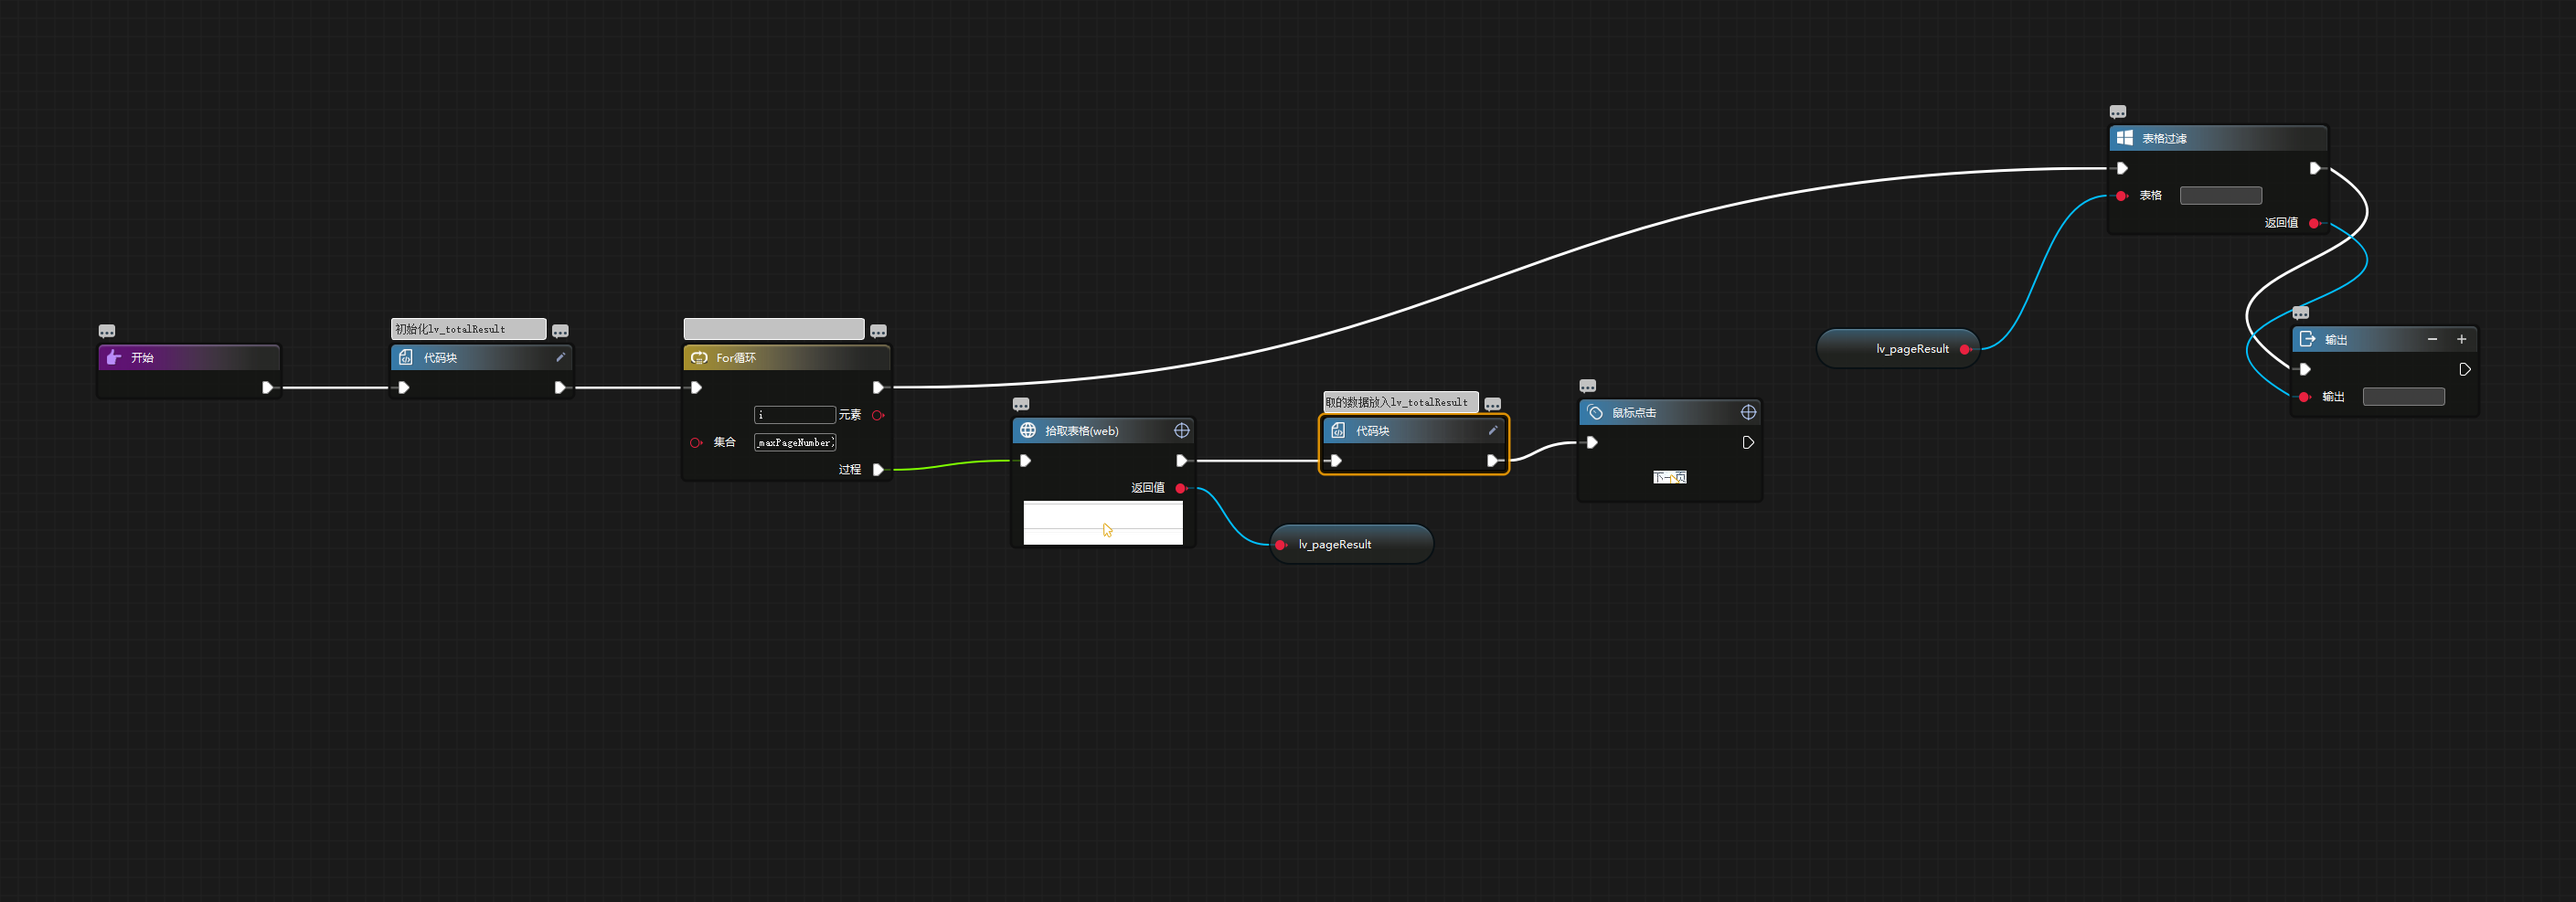
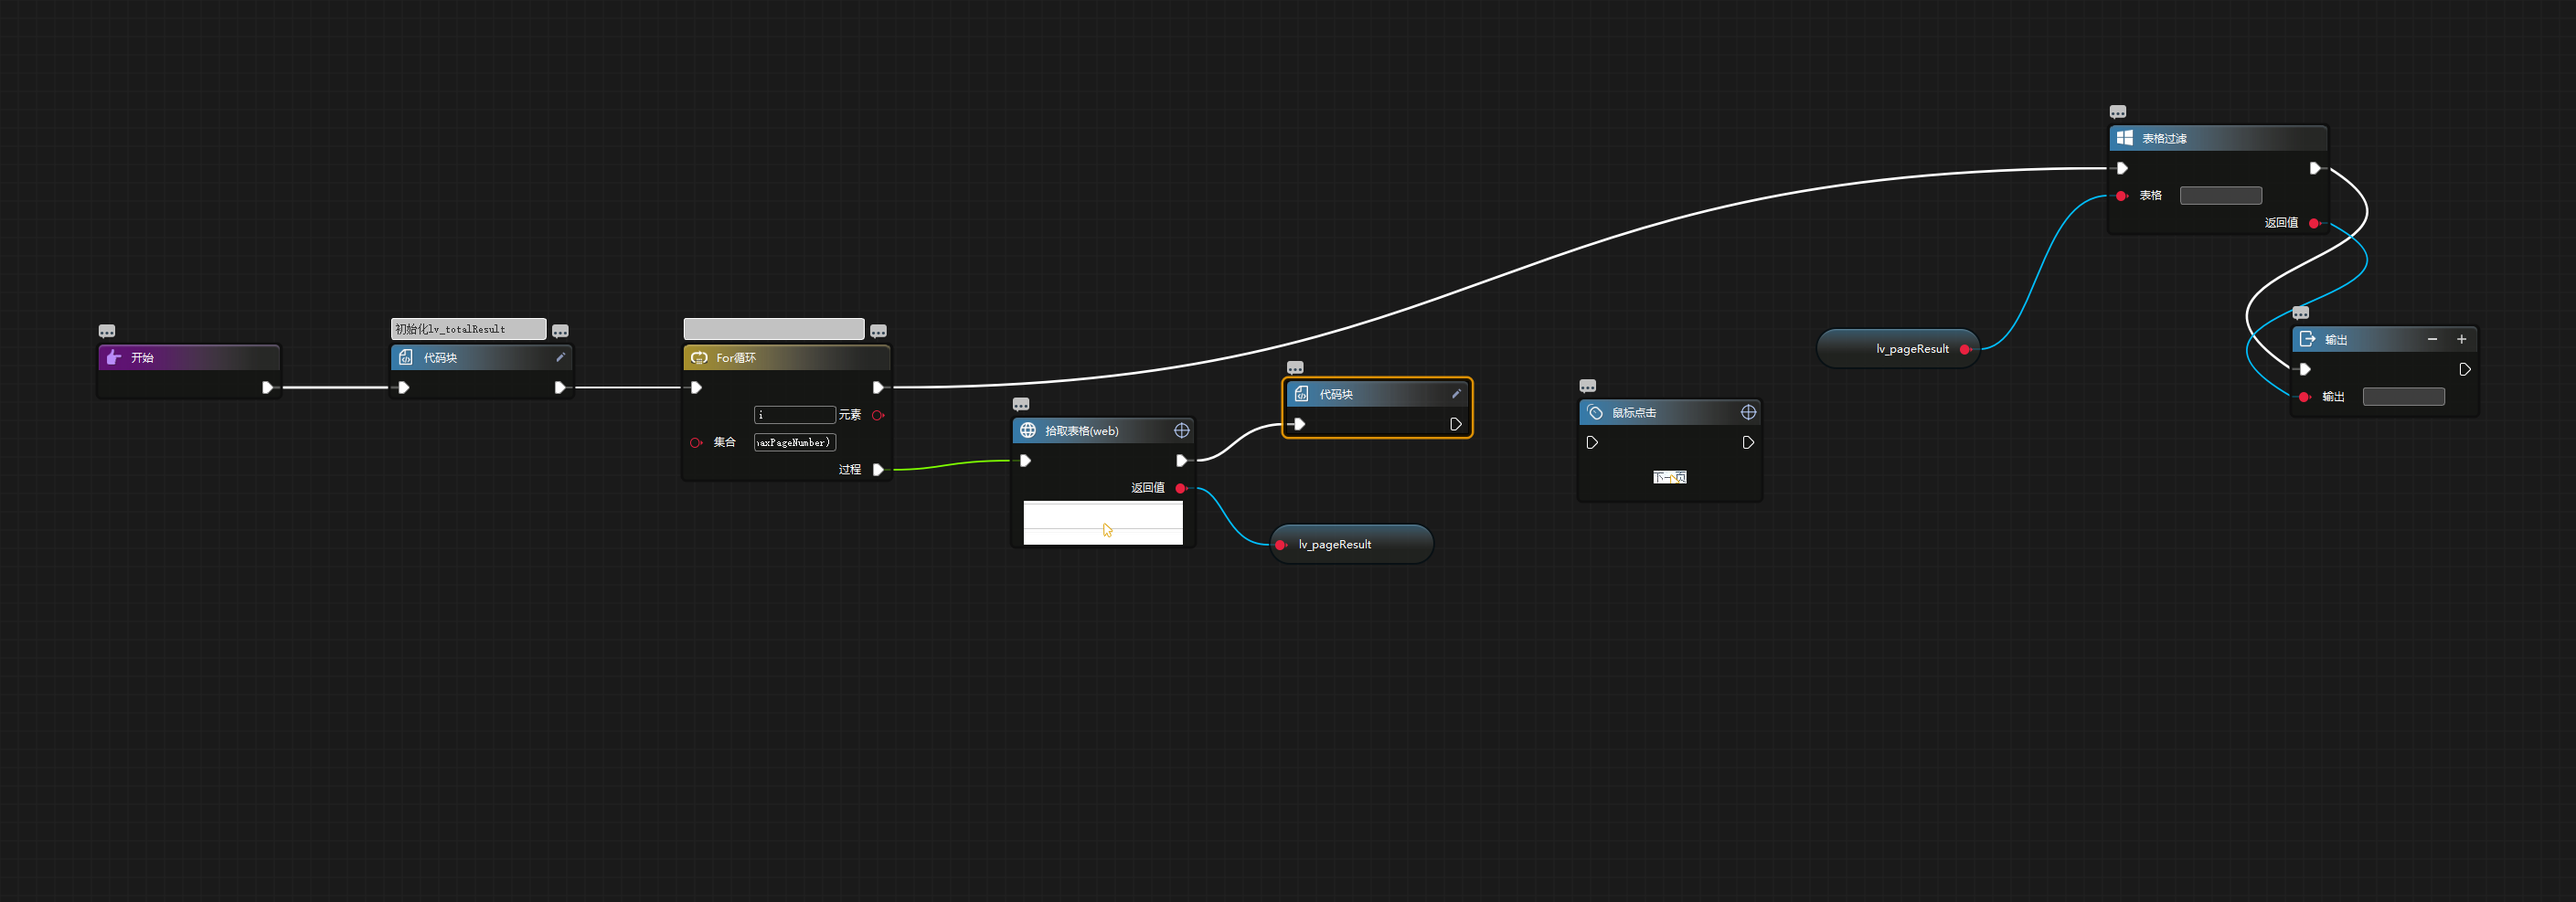
20200508152048

Changed region(s): [[0.4684, 0.3951, 0.6246, 0.5471]]

diff --git a/codes/Main.py b/codes/Main.py
@@ -1,5 +1,5 @@
 # coding=utf-8
-# 编译日期：2020-05-08 15:19:44
+# 编译日期：2020-05-08 15:20:48
 # 版权所有：www.i-search.com.cn
 import time
 import pdb
@@ -41,17 +41,13 @@ class YeHongJun_KaoShi:
         lv_totalResult = pd.DataFrame()
         # For循环
         self.__logger.debug('Flow:GetData,StepNodeTag:0815093966295,Note:')
-        for i in range(pv_maxPageNumber):
+        for i in range(pv_zmaxPageNumber):
             # IE拾取表格(web)
             self.__logger.debug('Flow:GetData,StepNodeTag:0814522186952,Note:')
             lv_pageResult = iie.get_ie_table(title=r'理财管理',selector=r'#boxTable',waitfor=10)
             # 代码块
-            self.__logger.debug('Flow:GetData,StepNodeTag:0815024293883,Note:将新获取的数据放入lv_totalResult
-            ')
-            lv_totalResult = lv_totalResult.append(lv_pageResult,ignore_index=True)
-            # 鼠标点击
-            self.__logger.debug('Flow:GetData,StepNodeTag:0815065762293,Note:')
-            iie.do_click_pos(win_title=r'双录系统-录音、录像、录屏 - Internet Explorer',title=r'理财管理',selector=r'#ListForm > DIV:nth-of-type(2) > DIV:nth-of-type(1) > DIV:nth-of-type(2) > FONT:nth-of-type(1) > DIV:nth-of-type(1) > SPAN:nth-of-type(3)',button=r'left',curson=r'center',times=1,run_mode=r'ctrl',continue_on_error=r'break',waitfor=10)
+            self.__logger.debug('Flow:GetData,StepNodeTag:08152035948114,Note:')
+            
         # 表格过滤
         self.__logger.debug('Flow:GetData,StepNodeTag:0815121659699,Note:')
         tvar0815121659699 = lv_pageResult[(lv_pageResult['产品代码'].str.startswith(pv_key))]

diff --git a/codes/Main_d.py b/codes/Main_d.py
@@ -1,5 +1,5 @@
 # coding=utf-8
-# 编译日期：2020-05-08 15:19:44
+# 编译日期：2020-05-08 15:20:48
 # 版权所有：www.i-search.com.cn
 import time
 import pdb
@@ -41,17 +41,13 @@ class YeHongJun_KaoShi:
         lv_totalResult = pd.DataFrame()
         # For循环
         self.__logger.debug('Flow:GetData,StepNodeTag:0815093966295,Note:')
-        for i in range(pv_maxPageNumber):
+        for i in range(pv_zmaxPageNumber):
             # IE拾取表格(web)
             self.__logger.debug('Flow:GetData,StepNodeTag:0814522186952,Note:')
             lv_pageResult = iie.get_ie_table(title=r'理财管理',selector=r'#boxTable',waitfor=10)
             # 代码块
-            self.__logger.debug('Flow:GetData,StepNodeTag:0815024293883,Note:将新获取的数据放入lv_totalResult
-            ')
-            lv_totalResult = lv_totalResult.append(lv_pageResult,ignore_index=True)
-            # 鼠标点击
-            self.__logger.debug('Flow:GetData,StepNodeTag:0815065762293,Note:')
-            iie.do_click_pos(win_title=r'双录系统-录音、录像、录屏 - Internet Explorer',title=r'理财管理',selector=r'#ListForm > DIV:nth-of-type(2) > DIV:nth-of-type(1) > DIV:nth-of-type(2) > FONT:nth-of-type(1) > DIV:nth-of-type(1) > SPAN:nth-of-type(3)',button=r'left',curson=r'center',times=1,run_mode=r'ctrl',continue_on_error=r'break',waitfor=10)
+            self.__logger.debug('Flow:GetData,StepNodeTag:08152035948114,Note:')
+            
         # 表格过滤
         self.__logger.debug('Flow:GetData,StepNodeTag:0815121659699,Note:')
         tvar0815121659699 = lv_pageResult[(lv_pageResult['产品代码'].str.startswith(pv_key))]
